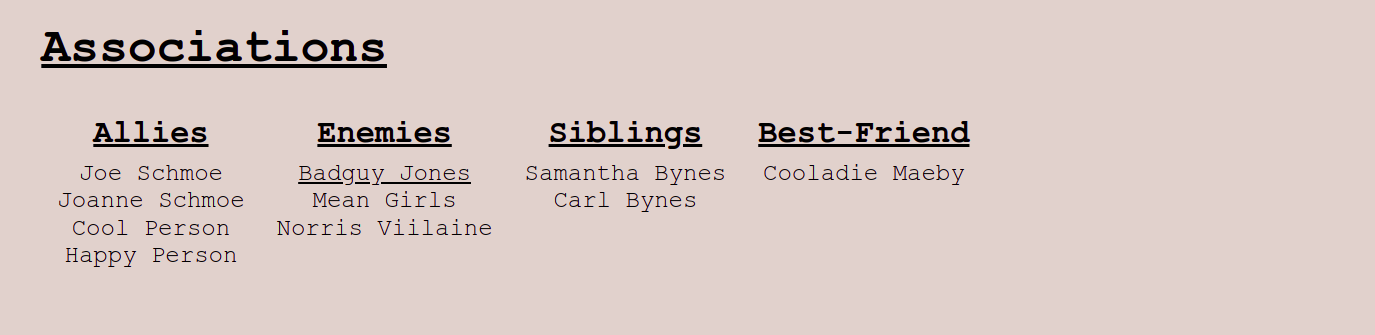
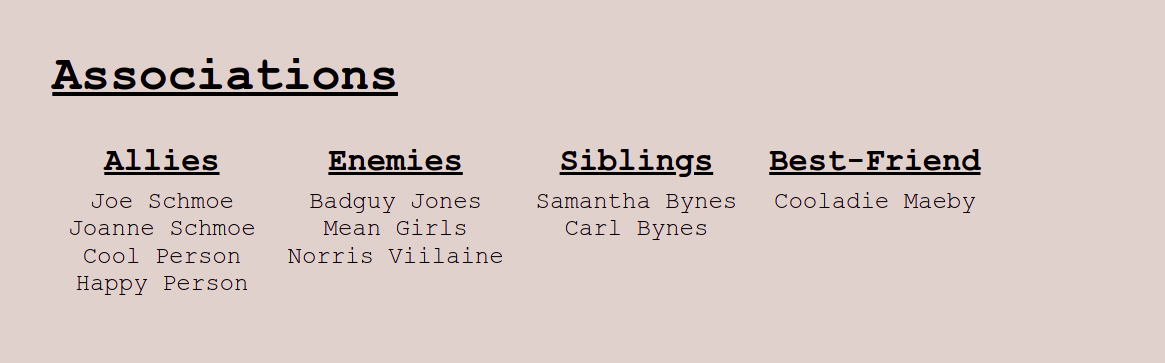
update readme * use larger picture for associations * add click description

Changed region(s): [[0.0309, 0.3582, 0.8652, 0.8358], [0.0309, 0.0896, 0.3399, 0.2687]]

diff --git a/README.md b/README.md
@@ -129,7 +129,7 @@ const gallery: GallerySection = {
 
 ### `AssociationsSection`
 
-Some pages may be associated with others. `Association`s help display these relationships.
+Some pages may be associated with others. `Association`s help display these relationships. Clicking on the name of the associated page directs the user to said page.
 
 ```typescript
 const associations: AssociationsSection = {
